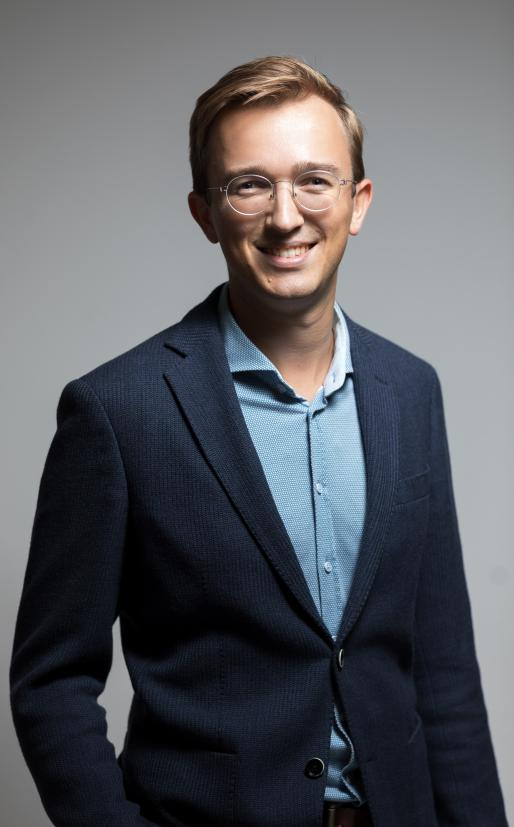
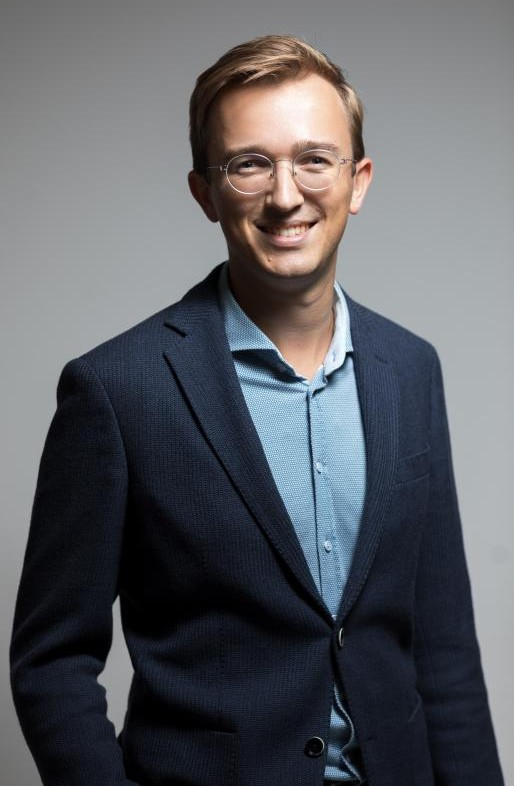
Crop image, Tweak layout

diff --git a/static/css/main.css b/static/css/main.css
@@ -64,7 +64,7 @@ ul li::before {
 .content {
   margin-left: auto;
   margin-right: auto;
-  max-width: 90%;
+  max-width: 95%;
 }
 header {
   display: flex;
@@ -119,6 +119,9 @@ img {
 }
 /* Landscape layout */
 @media (min-width: 40rem) {
+  html {
+    font-size: 20px;
+  }
   .content {
     margin-left: auto;
     margin-right: auto;

diff --git a/content/now.md b/content/now.md
@@ -4,12 +4,10 @@ description = "What I'm focused on at this point of my life"
 author = "David"
 +++
 
-Currently, I'm **interviewing for entry-level positions** in the field of Data Science and Data Engineering. I still live close to Karlsruhe, Baden-Württemberg, though considering moving to other great cities.
+Currently, I'm **interviewing for entry-level positions** in the fields of Data Science and Data Engineering. I still live close to Karlsruhe, Baden-Württemberg, though considering moving to other great cities.
 
 I’m healthy and happy, despite the COVID-19 situation. The last month has been spent mostly at home. But I’m grateful to have chosen a path where I’m only **dependent on a computer, an internet connection, and a (possibly remote) team of colleagues**.
 
-Germany in general has done well during these times though, and life is starting to get back to normal... for now. However, I would be more than happy to **spend a few years abroad** in the near future.
-
-The last few days I worked on **updating this website**. My main goal was to enable clean navigation and build a compact, yet beautiful design to mirror my working style and to present about myself. I also made some layout changes to support mobile devices and implemented dark mode.
+The last few days I worked on **updating this website**. My main goal was to enable a clean navigation and build a compact, yet beautiful design to mirror my working style and to present insights about myself. I also made some layout changes to support mobile devices and implemented dark mode.
 
 **I enjoy my freetime** by playing tennis outdoors for as long as autumn allows and study Beethoven piano sonatas or Chopin waltzes.

diff --git a/content/about.md b/content/about.md
@@ -5,7 +5,7 @@ aliases = ["about-us","contact"]
 author = "David"
 +++
 
-Dealing with various kinds of complexity is one of my key duties as an Industrial Engineer. Reducing it often has the highest return on investment. That is why I usually strive to find clean, simple, and sustainable solutions to problems and to life in general.
+Dealing with complexity is one of my key duties as an Industrial Engineer. Reducing it often has the highest return on investment. That is why I usually strive to find clean, simple, and sustainable solutions to problems and to life in general.
 
 **I’m a curious student of life.** If I’m not improving my skills or knowledge of the world on a regular basis I get bored. When I don’t understand, I ask why, and set out to find an answer.
 
